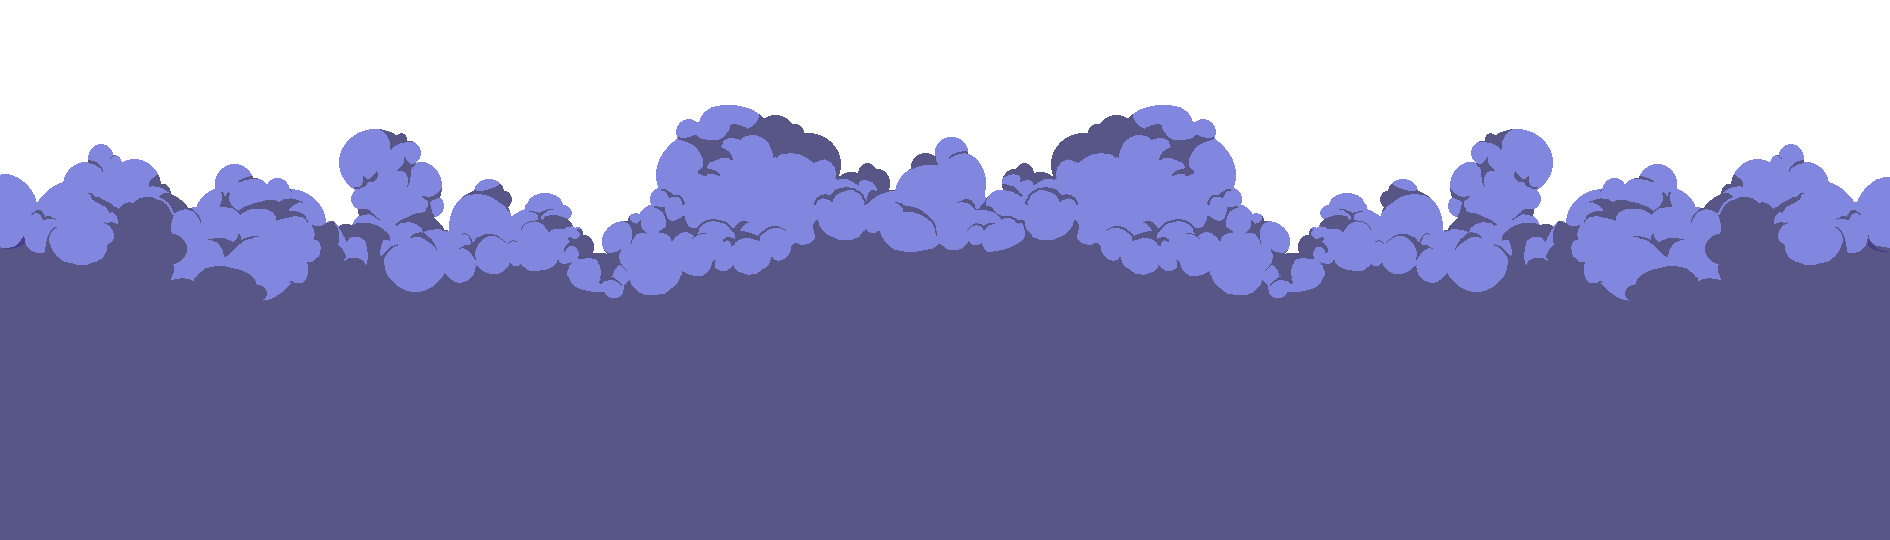
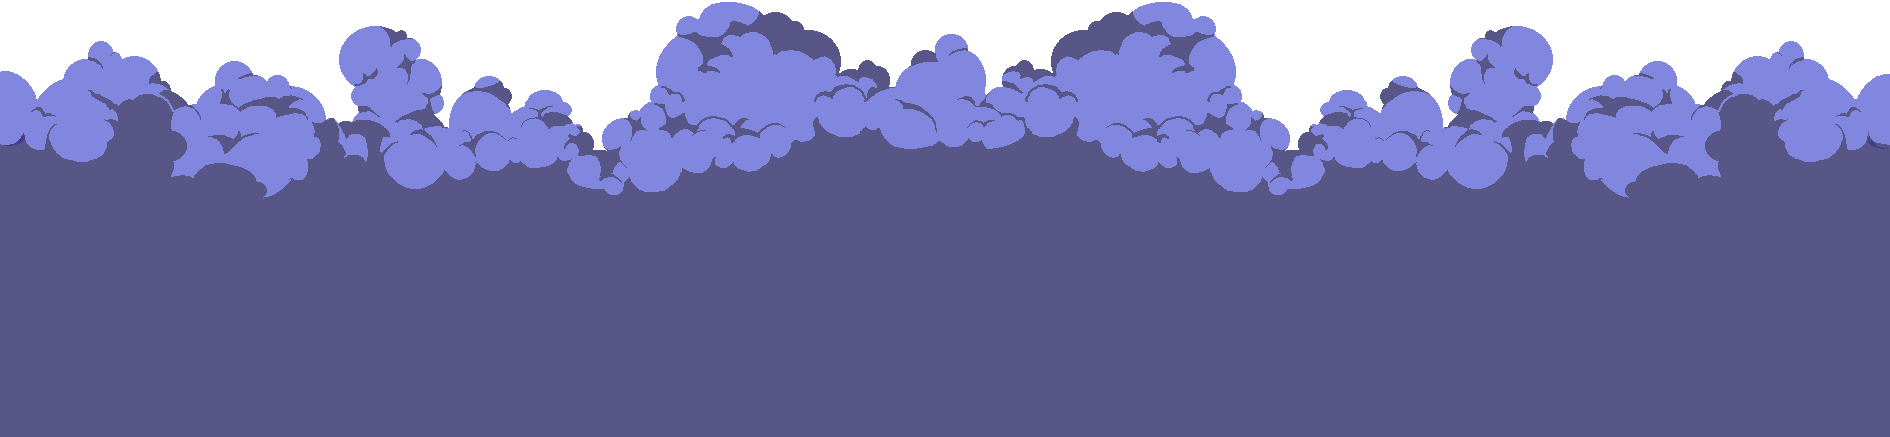
Cat now collides with top and bottom of screen but not clouds

Changed region(s): [[0.0, 0.0, 1.0, 0.5652]]

diff --git a/src/components/game/Game.js b/src/components/game/Game.js
@@ -1,10 +1,18 @@
 import React, {Component, useRef, useState} from 'react';
 import {GameEngine} from 'react-native-game-engine';
 import Matter from 'matter-js';
-import {Image, StyleSheet, Text, TouchableOpacity, View} from 'react-native';
+import {
+  Dimensions,
+  Image,
+  StyleSheet,
+  Text,
+  TouchableOpacity,
+  View,
+} from 'react-native';
 import Constants from './Constants';
 import Cat from './Cat';
-import Floor from './Floor';
+import Wall from './Wall';
+import Clouds from './Clouds';
 import Physics from './Physics';
 import Images from '../../assets/Images';
 
@@ -31,7 +39,10 @@ const Game = () => {
   const [gameEngine, setGameEngine] = useState(null);
 
   const setupWorld = () => {
-    let engine = Matter.Engine.create({enableSleeping: false});
+    let engine = Matter.Engine.create({
+      enableSleeping: false,
+      height: Dimensions.get('window').height,
+    });
     let world = engine.world;
     world.gravity.y = 0.0;
 
@@ -40,25 +51,73 @@ const Game = () => {
       Constants.MAX_HEIGHT / 2,
       Constants.CAT_WIDTH,
       Constants.CAT_HEIGHT,
+      {
+        collisionFilter: {
+          group: 1,
+          mask: 0,
+        },
+      },
     );
     cat.restitution = 20;
 
-    let floor = Matter.Bodies.rectangle(
+    let clouds = Matter.Bodies.rectangle(
       Constants.MAX_WIDTH,
-      Constants.MAX_HEIGHT - 25,
+      Constants.MAX_HEIGHT - 10,
       Constants.MAX_WIDTH * 3,
       Constants.MAX_WIDTH,
-      {isStatic: true},
+      {
+        isStatic: true,
+        collisionFilter: {
+          group: 2,
+          mask: 0,
+        },
+      },
     );
 
-    Matter.World.add(world, [cat, floor]);
+    let floor = Matter.Bodies.rectangle(
+      Constants.MAX_WIDTH / 2,
+      Constants.MAX_HEIGHT,
+      Constants.MAX_WIDTH,
+      1,
+      {isStatic: true, collisionFilter: {
+        group: 1,
+        mask: 0
+      }},
+    );
+
+    let ceiling = Matter.Bodies.rectangle(
+      Constants.MAX_WIDTH / 2,
+      0,
+      Constants.MAX_WIDTH,
+      1,
+      {isStatic: true, collisionFilter: {
+        group: 1,
+        mask: 0
+      }},
+    );
+
+    
+
+    Matter.World.add(world, [cat, clouds, floor, ceiling]);
 
     return {
       physics: {engine: engine, world: world},
       cat: {body: cat, pose: 1, renderer: Cat},
       floor: {
         body: floor,
-        renderer: Floor,
+        size: [Constants.MAX_WIDTH, 0],
+        color: 'green',
+        renderer: Wall,
+      },
+      ceiling: {
+        body: ceiling,
+        size: [Constants.MAX_WIDTH, 0],
+        color: 'green',
+        renderer: Wall,
+      },
+      clouds: {
+        body: clouds,
+        renderer: Clouds,
       },
     };
   };

diff --git a/src/components/game/Physics.js b/src/components/game/Physics.js
@@ -3,43 +3,53 @@ import {View} from 'react-native';
 import Matter from 'matter-js';
 import Constants from './Constants';
 
-let tick = 0
-let pose = 1
+let tick = 0;
+let pose = 1;
 
 const Physics = (entities, {touches, time, dispatch}) => {
   let engine = entities.physics.engine;
+  let world = entities.physics.world;
   let cat = entities.cat.body;
+
+  let hadTouches = false;
 
   touches
     .filter(t => t.type === 'press')
     .forEach(t => {
-      Matter.Body.applyForce(cat, cat.position, {x: 0.0, y: -0.1});
+      if (!hadTouches) {
+        if (world.gravity.y === 0.0) {
+          world.gravity.y = 1.2;
+        }
+        hadTouches = true;
+        Matter.Body.setVelocity(cat, {x: cat.velocity.x, y: -10});
+      }
     });
 
-
-
   Matter.Engine.update(engine, time.delta);
+  
 
-  Matter.Events.on(engine, 'collisionStart', (event) => {
-    dispatch({type: 'game_over'})
-  })
+  Matter.Events.on(engine, 'collisionStart', event => {
+    dispatch({type: 'game_over'});
+  });
 
   Object.keys(entities).forEach(key => {
-    if (key.indexOf("floor") === 0) {
-      if (entities[key].body.position.x <= -1 * Constants.MAX_WIDTH / 2) {
-        Matter.Body.setPosition(entities[key].body, {x: Constants.MAX_WIDTH + (Constants.MAX_WIDTH / 2), y: entities[key].body.position.y})
+    if (key.indexOf('clouds') === 0) {
+      if (entities[key].body.position.x <= (-1 * Constants.MAX_WIDTH) / 2) {
+        Matter.Body.setPosition(entities[key].body, {
+          x: Constants.MAX_WIDTH + Constants.MAX_WIDTH / 2,
+          y: entities[key].body.position.y,
+        });
       } else {
-      Matter.Body.translate(entities[key].body, {x: -2, y: 0})
+        Matter.Body.translate(entities[key].body, {x: -2, y: 0});
       }
     }
-  })
+  });
 
-
-  tick += 1
+  tick += 1;
   if (tick % 5 === 0) {
-    pose = pose + 1
+    pose = pose + 1;
     if (pose > 10) {
-      pose = 1
+      pose = 1;
     }
     entities.cat.pose = pose;
   }

diff --git a/src/components/game/Clouds.js b/src/components/game/Clouds.js
@@ -1,16 +1,15 @@
 import React, {Component, useState} from 'react';
 import {View, Image} from 'react-native';
-import Images from '../../assets/Images'
+import Images from '../../assets/Images';
 
-        
 class Clouds extends Component {
   render() {
     const width = this.props.body.bounds.max.x - this.props.body.bounds.min.x;
-    const height = this.props.body.bounds.max.y - this.props.body.bounds.min.y
+    const height = this.props.body.bounds.max.y - this.props.body.bounds.min.y;
     const x = this.props.body.position.x - width / 2;
     const y = this.props.body.position.y - height / 2;
 
-    const imageIterations = Math.ceil(width / height)
+    const imageIterations = Math.ceil(width / height); 
 
     return (
       <View
@@ -21,13 +20,19 @@ class Clouds extends Component {
           width: width,
           height: height,
           overflow: 'hidden',
-          flexDirection: 'row'
+          flexDirection: 'row',
         }}>
-            {Array.apply(null, Array(imageIterations)).map((el, i) => {
-                return <Image style={{width: width, height: height}} key={i} resizeMode='contain' source={Images.clouds} />
-            })}
-
-        </View>
+        {Array.apply(null, Array(imageIterations)).map((el, i) => {
+          return (
+            <Image
+              style={{width: height, height: height}}
+              key={i}
+              resizeMode="cover"
+              source={Images.clouds}
+            />
+          );
+        })}
+      </View>
     );
   }
 }

diff --git a/src/assets/Images.js b/src/assets/Images.js
@@ -1,5 +1,5 @@
 export default Images = {
-    clouds: require('./images/purpleClouds2.png'),
+    clouds: require('./images/greyClouds.png'),
     cloudsTop: require('./images/purpleClouds.png'),
     background: require('./images/city2.png'),
     idle1: require('./images/cat/idle1.png'),

diff --git a/src/components/game/Wall.js b/src/components/game/Wall.js
@@ -16,6 +16,7 @@ class Wall extends Component {
           left: x,
           width: width,
           height: height,
+          zIndex: 1000,
           backgroundColor: this.props.color,
         }}></View>
     );

diff --git a/src/components/game/Cat.js b/src/components/game/Cat.js
@@ -21,6 +21,7 @@ class Cat extends Component {
           left: x,
           width: width,
           height: height,
+          
         }} 
         resizeMode='stretch'
         source={image} />
